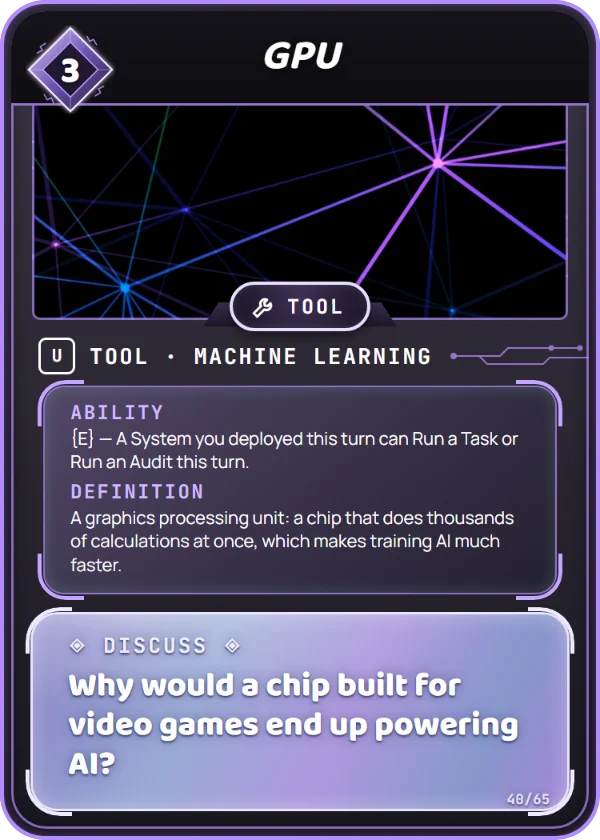
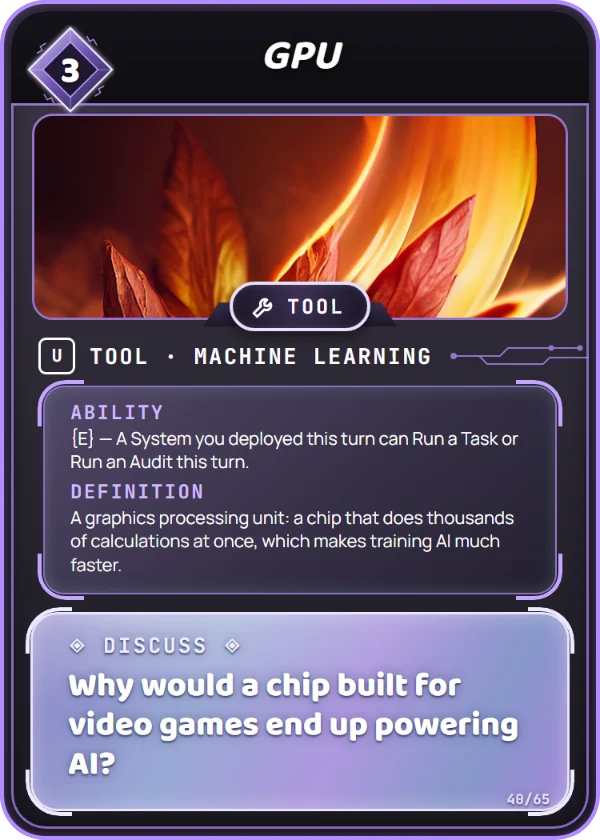
Add artwork to cards 31-40
Neuron, Tensor, CUDA, ImageNet, GAN, Diffusion Model, Unsupervised
Learning, Transformer, GPT, and GPU: rebuilt proofs and refreshed card
images for the website. The source artwork stays local in design/icons/.

Changed region(s): [[0.03, 0.1238, 0.96, 0.4024]]

diff --git a/design/frame-v2/proof-unsupervised-learning-ml.html b/design/frame-v2/proof-unsupervised-learning-ml.html
@@ -127,7 +127,7 @@
 <body><div class="stage"><div class="v2" style="--edge:#b48cff;--outerA:#26222e;--outerB:#131118;--body1:#3b3645;--body2:#1b1921;--head:#15131a;--panel1:rgba(150,128,196,.36);--panel2:rgba(36,32,48,.88);--label:#d0b9ff;--bracket:#c4a6ff;--circuit:#b48cff;--statA:#3e3155;--statB:#191424;--statBorder:#e8deff;--ledgeA:#3a3050;--ledgeB:#1c1727;--discussBg:linear-gradient(115deg,#8b84c8 0%,#9aaad6 32%,#ae98de 58%,#8898cc 82%,#a286d8 100%);--discussBorder:rgba(238,232,255,.95);--discussBracket:#efe9ff;--discussTag:#f1ecff;--discussInk:#ffffff;--discussShadow:0 2px 3px rgba(18,28,70,.75), 0 0 14px rgba(18,28,70,.35);--ink:#ffffff;--typeInk:#ffffff;--headInk:#ffffff;--statInk:#ffffff;--art:url('../backgrounds/selected/ml.jpg')">
   <div class="v2-body">
     <div class="v2-art"></div>
-    
+    <div class="v2-icon photo"><img src="../icons/unsupervised-learning.png" alt=""></div>
     <header class="v2-head"><h2>Unsupervised Learning</h2></header>
     <div class="v2-gem diamond"><svg viewBox="0 0 140 140" width="140" height="140" aria-hidden="true"><defs>
     <linearGradient id="gAml" x1="0" y1="0" x2="1" y2="1"><stop offset="0" stop-color="#dccbff"/><stop offset=".5" stop-color="#6c52ad"/><stop offset="1" stop-color="#211933"/></linearGradient>

diff --git a/design/frame-v2/proof-transformer-ml.html b/design/frame-v2/proof-transformer-ml.html
@@ -127,7 +127,7 @@
 <body><div class="stage"><div class="v2 full tall-tray" style="--edge:#b48cff;--outerA:#26222e;--outerB:#131118;--body1:#3b3645;--body2:#1b1921;--head:#15131a;--panel1:rgba(150,128,196,.36);--panel2:rgba(36,32,48,.88);--label:#d0b9ff;--bracket:#c4a6ff;--circuit:#b48cff;--statA:#3e3155;--statB:#191424;--statBorder:#e8deff;--ledgeA:#3a3050;--ledgeB:#1c1727;--discussBg:linear-gradient(115deg,#8b84c8 0%,#9aaad6 32%,#ae98de 58%,#8898cc 82%,#a286d8 100%);--discussBorder:rgba(238,232,255,.95);--discussBracket:#efe9ff;--discussTag:#f1ecff;--discussInk:#ffffff;--discussShadow:0 2px 3px rgba(18,28,70,.75), 0 0 14px rgba(18,28,70,.35);--ink:#ffffff;--typeInk:#ffffff;--headInk:#ffffff;--statInk:#ffffff;--art:url('../backgrounds/selected/ml.jpg')">
   <div class="v2-body">
     <div class="v2-art"></div>
-    
+    <div class="v2-icon photo"><img src="../icons/transformer.png" alt=""></div>
     <header class="v2-head"><h2>Transformer</h2></header>
     <div class="v2-gem round"><svg viewBox="0 0 140 140" width="140" height="140" aria-hidden="true"><defs>
     <linearGradient id="gAml" x1="0" y1="0" x2="1" y2="1"><stop offset="0" stop-color="#dccbff"/><stop offset=".5" stop-color="#6c52ad"/><stop offset="1" stop-color="#211933"/></linearGradient>

diff --git a/design/frame-v2/proof-diffusion-model-ml.html b/design/frame-v2/proof-diffusion-model-ml.html
@@ -127,7 +127,7 @@
 <body><div class="stage"><div class="v2" style="--edge:#b48cff;--outerA:#26222e;--outerB:#131118;--body1:#3b3645;--body2:#1b1921;--head:#15131a;--panel1:rgba(150,128,196,.36);--panel2:rgba(36,32,48,.88);--label:#d0b9ff;--bracket:#c4a6ff;--circuit:#b48cff;--statA:#3e3155;--statB:#191424;--statBorder:#e8deff;--ledgeA:#3a3050;--ledgeB:#1c1727;--discussBg:linear-gradient(115deg,#8b84c8 0%,#9aaad6 32%,#ae98de 58%,#8898cc 82%,#a286d8 100%);--discussBorder:rgba(238,232,255,.95);--discussBracket:#efe9ff;--discussTag:#f1ecff;--discussInk:#ffffff;--discussShadow:0 2px 3px rgba(18,28,70,.75), 0 0 14px rgba(18,28,70,.35);--ink:#ffffff;--typeInk:#ffffff;--headInk:#ffffff;--statInk:#ffffff;--art:url('../backgrounds/selected/ml.jpg')">
   <div class="v2-body">
     <div class="v2-art"></div>
-    
+    <div class="v2-icon photo"><img src="../icons/diffusion-model.png" alt=""></div>
     <header class="v2-head"><h2>Diffusion Model</h2></header>
     <div class="v2-gem diamond"><svg viewBox="0 0 140 140" width="140" height="140" aria-hidden="true"><defs>
     <linearGradient id="gAml" x1="0" y1="0" x2="1" y2="1"><stop offset="0" stop-color="#dccbff"/><stop offset=".5" stop-color="#6c52ad"/><stop offset="1" stop-color="#211933"/></linearGradient>

diff --git a/design/frame-v2/proof-imagenet-ml.html b/design/frame-v2/proof-imagenet-ml.html
@@ -127,7 +127,7 @@
 <body><div class="stage"><div class="v2 nostats" style="--edge:#b48cff;--outerA:#26222e;--outerB:#131118;--body1:#3b3645;--body2:#1b1921;--head:#15131a;--panel1:rgba(150,128,196,.36);--panel2:rgba(36,32,48,.88);--label:#d0b9ff;--bracket:#c4a6ff;--circuit:#b48cff;--statA:#3e3155;--statB:#191424;--statBorder:#e8deff;--ledgeA:#3a3050;--ledgeB:#1c1727;--discussBg:linear-gradient(115deg,#8b84c8 0%,#9aaad6 32%,#ae98de 58%,#8898cc 82%,#a286d8 100%);--discussBorder:rgba(238,232,255,.95);--discussBracket:#efe9ff;--discussTag:#f1ecff;--discussInk:#ffffff;--discussShadow:0 2px 3px rgba(18,28,70,.75), 0 0 14px rgba(18,28,70,.35);--ink:#ffffff;--typeInk:#ffffff;--headInk:#ffffff;--statInk:#ffffff;--art:url('../backgrounds/selected/ml.jpg')">
   <div class="v2-body">
     <div class="v2-art"></div>
-    
+    <div class="v2-icon photo"><img src="../icons/imagenet.png" alt=""></div>
     <header class="v2-head"><h2>ImageNet</h2></header>
     <div class="v2-gem diamond"><svg viewBox="0 0 140 140" width="140" height="140" aria-hidden="true"><defs>
     <linearGradient id="gAml" x1="0" y1="0" x2="1" y2="1"><stop offset="0" stop-color="#dccbff"/><stop offset=".5" stop-color="#6c52ad"/><stop offset="1" stop-color="#211933"/></linearGradient>

diff --git a/design/frame-v2/proof-tensor-ml.html b/design/frame-v2/proof-tensor-ml.html
@@ -127,7 +127,7 @@
 <body><div class="stage"><div class="v2 nostats" style="--edge:#b48cff;--outerA:#26222e;--outerB:#131118;--body1:#3b3645;--body2:#1b1921;--head:#15131a;--panel1:rgba(150,128,196,.36);--panel2:rgba(36,32,48,.88);--label:#d0b9ff;--bracket:#c4a6ff;--circuit:#b48cff;--statA:#3e3155;--statB:#191424;--statBorder:#e8deff;--ledgeA:#3a3050;--ledgeB:#1c1727;--discussBg:linear-gradient(115deg,#8b84c8 0%,#9aaad6 32%,#ae98de 58%,#8898cc 82%,#a286d8 100%);--discussBorder:rgba(238,232,255,.95);--discussBracket:#efe9ff;--discussTag:#f1ecff;--discussInk:#ffffff;--discussShadow:0 2px 3px rgba(18,28,70,.75), 0 0 14px rgba(18,28,70,.35);--ink:#ffffff;--typeInk:#ffffff;--headInk:#ffffff;--statInk:#ffffff;--art:url('../backgrounds/selected/ml.jpg')">
   <div class="v2-body">
     <div class="v2-art"></div>
-    
+    <div class="v2-icon photo"><img src="../icons/tensor.png" alt=""></div>
     <header class="v2-head"><h2>Tensor</h2></header>
     <div class="v2-gem diamond"><svg viewBox="0 0 140 140" width="140" height="140" aria-hidden="true"><defs>
     <linearGradient id="gAml" x1="0" y1="0" x2="1" y2="1"><stop offset="0" stop-color="#dccbff"/><stop offset=".5" stop-color="#6c52ad"/><stop offset="1" stop-color="#211933"/></linearGradient>

diff --git a/design/frame-v2/proof-cuda-ml.html b/design/frame-v2/proof-cuda-ml.html
@@ -127,7 +127,7 @@
 <body><div class="stage"><div class="v2 nostats" style="--edge:#b48cff;--outerA:#26222e;--outerB:#131118;--body1:#3b3645;--body2:#1b1921;--head:#15131a;--panel1:rgba(150,128,196,.36);--panel2:rgba(36,32,48,.88);--label:#d0b9ff;--bracket:#c4a6ff;--circuit:#b48cff;--statA:#3e3155;--statB:#191424;--statBorder:#e8deff;--ledgeA:#3a3050;--ledgeB:#1c1727;--discussBg:linear-gradient(115deg,#8b84c8 0%,#9aaad6 32%,#ae98de 58%,#8898cc 82%,#a286d8 100%);--discussBorder:rgba(238,232,255,.95);--discussBracket:#efe9ff;--discussTag:#f1ecff;--discussInk:#ffffff;--discussShadow:0 2px 3px rgba(18,28,70,.75), 0 0 14px rgba(18,28,70,.35);--ink:#ffffff;--typeInk:#ffffff;--headInk:#ffffff;--statInk:#ffffff;--art:url('../backgrounds/selected/ml.jpg')">
   <div class="v2-body">
     <div class="v2-art"></div>
-    
+    <div class="v2-icon photo"><img src="../icons/cuda.png" alt=""></div>
     <header class="v2-head"><h2>CUDA</h2></header>
     <div class="v2-gem diamond"><svg viewBox="0 0 140 140" width="140" height="140" aria-hidden="true"><defs>
     <linearGradient id="gAml" x1="0" y1="0" x2="1" y2="1"><stop offset="0" stop-color="#dccbff"/><stop offset=".5" stop-color="#6c52ad"/><stop offset="1" stop-color="#211933"/></linearGradient>

diff --git a/design/frame-v2/proof-gpu-ml.html b/design/frame-v2/proof-gpu-ml.html
@@ -127,7 +127,7 @@
 <body><div class="stage"><div class="v2 nostats" style="--edge:#b48cff;--outerA:#26222e;--outerB:#131118;--body1:#3b3645;--body2:#1b1921;--head:#15131a;--panel1:rgba(150,128,196,.36);--panel2:rgba(36,32,48,.88);--label:#d0b9ff;--bracket:#c4a6ff;--circuit:#b48cff;--statA:#3e3155;--statB:#191424;--statBorder:#e8deff;--ledgeA:#3a3050;--ledgeB:#1c1727;--discussBg:linear-gradient(115deg,#8b84c8 0%,#9aaad6 32%,#ae98de 58%,#8898cc 82%,#a286d8 100%);--discussBorder:rgba(238,232,255,.95);--discussBracket:#efe9ff;--discussTag:#f1ecff;--discussInk:#ffffff;--discussShadow:0 2px 3px rgba(18,28,70,.75), 0 0 14px rgba(18,28,70,.35);--ink:#ffffff;--typeInk:#ffffff;--headInk:#ffffff;--statInk:#ffffff;--art:url('../backgrounds/selected/ml.jpg')">
   <div class="v2-body">
     <div class="v2-art"></div>
-    
+    <div class="v2-icon photo"><img src="../icons/gpu.png" alt=""></div>
     <header class="v2-head"><h2>GPU</h2></header>
     <div class="v2-gem diamond"><svg viewBox="0 0 140 140" width="140" height="140" aria-hidden="true"><defs>
     <linearGradient id="gAml" x1="0" y1="0" x2="1" y2="1"><stop offset="0" stop-color="#dccbff"/><stop offset=".5" stop-color="#6c52ad"/><stop offset="1" stop-color="#211933"/></linearGradient>

diff --git a/design/frame-v2/proof-neuron-ml.html b/design/frame-v2/proof-neuron-ml.html
@@ -127,7 +127,7 @@
 <body><div class="stage"><div class="v2" style="--edge:#b48cff;--outerA:#26222e;--outerB:#131118;--body1:#3b3645;--body2:#1b1921;--head:#15131a;--panel1:rgba(150,128,196,.36);--panel2:rgba(36,32,48,.88);--label:#d0b9ff;--bracket:#c4a6ff;--circuit:#b48cff;--statA:#3e3155;--statB:#191424;--statBorder:#e8deff;--ledgeA:#3a3050;--ledgeB:#1c1727;--discussBg:linear-gradient(115deg,#8b84c8 0%,#9aaad6 32%,#ae98de 58%,#8898cc 82%,#a286d8 100%);--discussBorder:rgba(238,232,255,.95);--discussBracket:#efe9ff;--discussTag:#f1ecff;--discussInk:#ffffff;--discussShadow:0 2px 3px rgba(18,28,70,.75), 0 0 14px rgba(18,28,70,.35);--ink:#ffffff;--typeInk:#ffffff;--headInk:#ffffff;--statInk:#ffffff;--art:url('../backgrounds/selected/ml.jpg')">
   <div class="v2-body">
     <div class="v2-art"></div>
-    
+    <div class="v2-icon photo"><img src="../icons/neuron.png" alt=""></div>
     <header class="v2-head"><h2>Neuron</h2></header>
     <div class="v2-gem diamond"><svg viewBox="0 0 140 140" width="140" height="140" aria-hidden="true"><defs>
     <linearGradient id="gAml" x1="0" y1="0" x2="1" y2="1"><stop offset="0" stop-color="#dccbff"/><stop offset=".5" stop-color="#6c52ad"/><stop offset="1" stop-color="#211933"/></linearGradient>

diff --git a/design/frame-v2/proof-gan-ml.html b/design/frame-v2/proof-gan-ml.html
@@ -127,7 +127,7 @@
 <body><div class="stage"><div class="v2" style="--edge:#b48cff;--outerA:#26222e;--outerB:#131118;--body1:#3b3645;--body2:#1b1921;--head:#15131a;--panel1:rgba(150,128,196,.36);--panel2:rgba(36,32,48,.88);--label:#d0b9ff;--bracket:#c4a6ff;--circuit:#b48cff;--statA:#3e3155;--statB:#191424;--statBorder:#e8deff;--ledgeA:#3a3050;--ledgeB:#1c1727;--discussBg:linear-gradient(115deg,#8b84c8 0%,#9aaad6 32%,#ae98de 58%,#8898cc 82%,#a286d8 100%);--discussBorder:rgba(238,232,255,.95);--discussBracket:#efe9ff;--discussTag:#f1ecff;--discussInk:#ffffff;--discussShadow:0 2px 3px rgba(18,28,70,.75), 0 0 14px rgba(18,28,70,.35);--ink:#ffffff;--typeInk:#ffffff;--headInk:#ffffff;--statInk:#ffffff;--art:url('../backgrounds/selected/ml.jpg')">
   <div class="v2-body">
     <div class="v2-art"></div>
-    
+    <div class="v2-icon photo"><img src="../icons/gan.png" alt=""></div>
     <header class="v2-head"><h2>GAN</h2></header>
     <div class="v2-gem diamond"><svg viewBox="0 0 140 140" width="140" height="140" aria-hidden="true"><defs>
     <linearGradient id="gAml" x1="0" y1="0" x2="1" y2="1"><stop offset="0" stop-color="#dccbff"/><stop offset=".5" stop-color="#6c52ad"/><stop offset="1" stop-color="#211933"/></linearGradient>

diff --git a/design/frame-v2/proof-gpt-ml.html b/design/frame-v2/proof-gpt-ml.html
@@ -127,7 +127,7 @@
 <body><div class="stage"><div class="v2" style="--edge:#b48cff;--outerA:#26222e;--outerB:#131118;--body1:#3b3645;--body2:#1b1921;--head:#15131a;--panel1:rgba(150,128,196,.36);--panel2:rgba(36,32,48,.88);--label:#d0b9ff;--bracket:#c4a6ff;--circuit:#b48cff;--statA:#3e3155;--statB:#191424;--statBorder:#e8deff;--ledgeA:#3a3050;--ledgeB:#1c1727;--discussBg:linear-gradient(115deg,#8b84c8 0%,#9aaad6 32%,#ae98de 58%,#8898cc 82%,#a286d8 100%);--discussBorder:rgba(238,232,255,.95);--discussBracket:#efe9ff;--discussTag:#f1ecff;--discussInk:#ffffff;--discussShadow:0 2px 3px rgba(18,28,70,.75), 0 0 14px rgba(18,28,70,.35);--ink:#ffffff;--typeInk:#ffffff;--headInk:#ffffff;--statInk:#ffffff;--art:url('../backgrounds/selected/ml.jpg')">
   <div class="v2-body">
     <div class="v2-art"></div>
-    
+    <div class="v2-icon photo"><img src="../icons/gpt.png" alt=""></div>
     <header class="v2-head"><h2>GPT</h2></header>
     <div class="v2-gem diamond"><svg viewBox="0 0 140 140" width="140" height="140" aria-hidden="true"><defs>
     <linearGradient id="gAml" x1="0" y1="0" x2="1" y2="1"><stop offset="0" stop-color="#dccbff"/><stop offset=".5" stop-color="#6c52ad"/><stop offset="1" stop-color="#211933"/></linearGradient>
